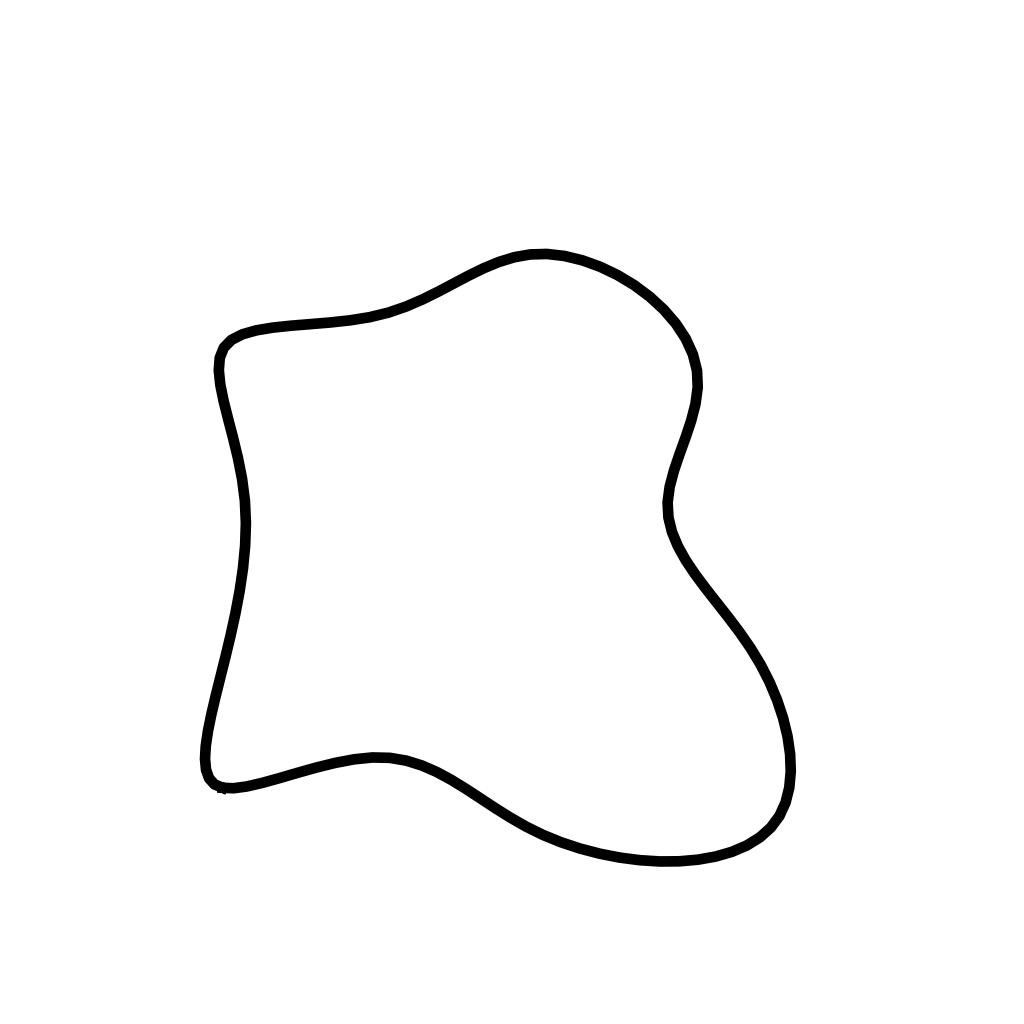
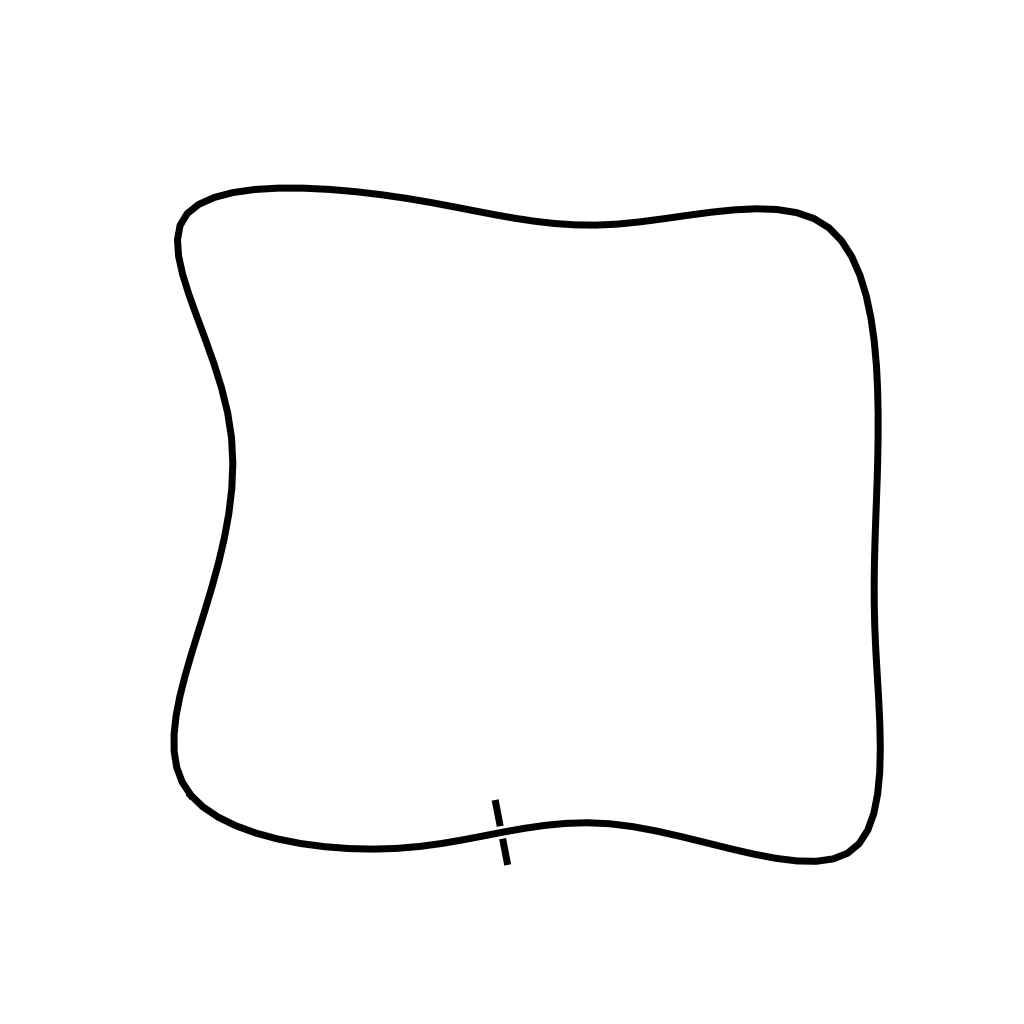
Start-/Stop-line generation added to simple track.

diff --git a/src/pyLineFollowerTrackGenerator/cmd_simple.py b/src/pyLineFollowerTrackGenerator/cmd_simple.py
@@ -44,8 +44,9 @@ from pyLineFollowerTrackGenerator.nodes.ImageTexture import ImageTexture
 ################################################################################
 # Variables
 ################################################################################
-
 _CMD_NAME = "simple"
+_START_STOP_LINE_WIDTH = 0.05 # [m]
+_START_STOP_LINE_DISTANCE_TO_MIDDLE = 0.025 # [m]
 
 ################################################################################
 # Classes
@@ -55,18 +56,30 @@ _CMD_NAME = "simple"
 # Functions
 ################################################################################
 
-def _generate_points_along_rectangle(num_points, border_width, border_height): # pylint: disable=too-many-locals
-    num_points_on_x_axis = num_points * border_width // (2 * (border_width + border_height))
-    num_points_on_y_axis = num_points * border_height // (2 * (border_width + border_height))
+# pylint: disable=too-many-locals, line-too-long
+def _generate_points_along_rectangle(num_points, rect_width, rect_height) -> tuple[list[int], list[int]]:
+    """Generate a number of points along a virtual rectangle with the given
+        width/height.
+
+    Args:
+        num_points (int): Number of points to generate.
+        rect_width (int): Virtual rectangle width in pixels.
+        rect_height (int): Virtual rectangle height in pixels.
+
+    Returns:
+        tuple[list[int], list[int]]: Point coordinates (x, y)
+    """
+    num_points_on_x_axis = num_points * rect_width // (2 * (rect_width + rect_height))
+    num_points_on_y_axis = num_points * rect_height // (2 * (rect_width + rect_height))
     tolerance = 10 # [%]
-    width = border_width * (100 - 2 * tolerance) // 100
-    height = border_height * (100 - 2 * tolerance) // 100
+    width = rect_width * (100 - 2 * tolerance) // 100
+    height = rect_height * (100 - 2 * tolerance) // 100
     x_tolerance = width * tolerance // 100
     y_tolerance = height * tolerance // 100
     distance_x = width // num_points_on_x_axis
     distance_y = height // num_points_on_y_axis
-    points_x = []
-    points_y = []
+    x_points = []
+    y_points = []
 
     # Walk along x-axis in positive direction
     y_base = 0
@@ -77,8 +90,8 @@ def _generate_points_along_rectangle(num_points, border_width, border_height): #
         x += x_tolerance
         y += y_tolerance
 
-        points_x.append(x)
-        points_y.append(y)
+        x_points.append(x)
+        y_points.append(y)
 
     # Walk along y-axis in positive direction
     x_base = width - 1
@@ -89,8 +102,8 @@ def _generate_points_along_rectangle(num_points, border_width, border_height): #
         x += x_tolerance
         y += y_tolerance
 
-        points_x.append(x)
-        points_y.append(y)
+        x_points.append(x)
+        y_points.append(y)
 
     # Walk along x-axis in negative direction
     y_base = height - 1
@@ -101,8 +114,8 @@ def _generate_points_along_rectangle(num_points, border_width, border_height): #
         x += x_tolerance
         y += y_tolerance
 
-        points_x.append(x)
-        points_y.append(y)
+        x_points.append(x)
+        y_points.append(y)
 
     # Walk along y-axis in negative direction
     x_base = 0
@@ -113,10 +126,10 @@ def _generate_points_along_rectangle(num_points, border_width, border_height): #
         x += x_tolerance
         y += y_tolerance
 
-        points_x.append(x)
-        points_y.append(y)
+        x_points.append(x)
+        y_points.append(y)
 
-    return points_x, points_y
+    return x_points, y_points
 
 def _generate_spline(x, y):
     num_points = len(x)
@@ -131,26 +144,117 @@ def _generate_spline(x, y):
     u_new = np.linspace(0, 1, num_points * 10)
     x_spline, y_spline = splev(u_new, tck, der=0)
 
-    return x_spline, y_spline
+    return x_spline, y_spline, tck
 
-def _generate_track_image(image_file_name, num_points, image_width, image_height, image_line_width, is_debug_mode): # pylint: disable=too-many-arguments, line-too-long
+def _generate_start_stop_line(tck, u, distance_from_middle, length) -> tuple[list[float], list[float], list[float], list[float]]:
+    """Generate points for a start-/stop-line. The start-/stop-line
+        start at the given distance from the line middle on both
+        sides and has a dediacted length.
+
+    Args:
+        tck (tuple(t,c,k)): Knots vector
+        u (float): Location on the virtual rectangle spline [0..1]
+        distance_from_middle (int): Distance from the line middle in pixels.
+        length (int): Length in pixels of one part of the start-/stop-line.
+
+    Returns:
+        tuple[list[float], list[float], list[float], list[float]]: Lower and upper points of the start-/stop-line.
+    """
+    # Calculate the derivative of the spline at the given parameter u.
+    dx, dy = splev(u, tck, der=1)
+
+    # Determine the point on the spline at the given parameter u.
+    x_spline, y_spline = splev(u, tck)
+
+    # Determine the unit normal vector to the tangent
+    mag = np.sqrt(dx**2 + dy**2)
+    nx = -dy / mag  # x-component of the unit normal vector
+    ny = dx / mag   # y-component of the unit normal vector
+
+    # Determine the points on the perpendicular lines to form 
+    x_perpendicular_low = [
+        x_spline - distance_from_middle * nx,
+        x_spline - (distance_from_middle + length) * nx
+    ]
+    y_perpendicular_low = [
+        y_spline - distance_from_middle * ny,
+        y_spline - (distance_from_middle + length) * ny
+    ]
+
+    x_perpendicular_high = [
+        x_spline + distance_from_middle * nx,
+        x_spline + (distance_from_middle + length) * nx
+    ]
+    y_perpendicular_high = [
+        y_spline + distance_from_middle * ny,
+        y_spline + (distance_from_middle + length) * ny
+    ]
+
+    return x_perpendicular_low, y_perpendicular_low, x_perpendicular_high, y_perpendicular_high
+
+# pylint: disable=too-many-arguments, line-too-long
+def _generate_track_image(num_points, image_width, image_height, image_line_width, pixel_per_m, is_debug_mode) -> plt.Figure:
+    """Generate the image with the line follower track.
+
+    Args:
+        num_points (int): Number of points on the used virtual rectangle.
+        image_width (int): Image width in pixels.
+        image_height (int): Image height in pixels.
+        image_line_width (int): The line follower line width in pixels.
+        pixel_per_m (float): Conversion factor pixel per m.
+        is_debug_mode (bool): In debug mode the image will get additional information.
+
+    Returns:
+        plt.Figure: Figure
+    """
+    line_color = "black"
+    line_points_color = "red"
+    start_stop_line_color = line_color
+    background_color = "white"
+
+    # 12.5 % after the first point, means in the middle of the lower rectangle part.
+    start_stop_line_location = 0.125
+
+    # In debug mode show the start-/stop-line in different color.
+    if is_debug_mode is True:
+        start_stop_line_color = "orange"
+
     # Create figure and axis
-    dpi = 100
-    _, ax = plt.subplots(figsize=(image_width/dpi, image_height/dpi),dpi=dpi)
+    dpi = 72 # Use a dpi of 72 to plot with exact pixel sizes.
+    fig, ax = plt.subplots(figsize=(image_width/dpi, image_height/dpi),dpi=dpi)
 
-    # Set white background
-    ax.set_facecolor('white')
+    # Set background color
+    ax.set_facecolor(background_color)
 
     # Generate random line
-    rect_x, rect_y = _generate_points_along_rectangle(num_points, image_width, image_height)
-    x, y = _generate_spline(rect_x, rect_y)
+    x_rect, y_rect = _generate_points_along_rectangle(num_points, image_width, image_height)
+    x_spline, y_spline, tck = _generate_spline(x_rect, y_rect)
 
     # Plot the line
-    ax.plot(x, y, color="black", linewidth=image_line_width, zorder=1)
+    ax.plot(x_spline, y_spline, color=line_color, linewidth=image_line_width, zorder=1)
 
     # Show the points used for generation in debug mode.
     if is_debug_mode is True:
-        ax.scatter(rect_x, rect_y, color="red", linewidth=image_line_width, zorder=2)
+        ax.scatter(x_rect, y_rect, color=line_points_color, linewidth=image_line_width, zorder=2)
+
+    # Plot start- and stop-line
+    x_perpendicular_low, y_perpendicular_low, \
+    x_perpendicular_high, y_perpendicular_high = \
+        _generate_start_stop_line(  tck,
+                                    start_stop_line_location,
+                                    _START_STOP_LINE_DISTANCE_TO_MIDDLE * pixel_per_m,
+                                    _START_STOP_LINE_WIDTH * pixel_per_m)
+
+    ax.plot(x_perpendicular_low,
+            y_perpendicular_low,
+            color=start_stop_line_color,
+            linewidth=image_line_width,
+            zorder=2)
+    ax.plot(x_perpendicular_high,
+            y_perpendicular_high,
+            color=start_stop_line_color,
+            linewidth=image_line_width,
+            zorder=2)
 
     # Set limits
     ax.set_xlim(0, image_width)
@@ -159,7 +263,7 @@ def _generate_track_image(image_file_name, num_points, image_width, image_height
     # Hide axes
     ax.axis('off')
 
-    plt.savefig(image_file_name)
+    return fig
 
 def _get_cmd_line_parameters() -> str:
     args = sys.argv[1:]
@@ -188,10 +292,11 @@ def _exec(args): # pylint: disable=too-many-locals
     world_creation_date = datetime.today().strftime('%Y-%m-%d')
     image_width         = args.imageSize # [pixel]
     image_height        = args.imageSize # [pixel]
-    image_line_width    = args.imageSize * args.lineWidth / args.size # [pixel]
+    image_line_width    = args.imageSize * args.lineWidth // args.size # [pixel]
     arena_width         = args.size # [m]
     arena_height        = args.size # [m]
     num_points          = args.numPoints
+    pixel_per_m         = args.imageSize / args.size
     world_file_name     = ""
     image_file_name     = ""
     basic_time_step     = 8
@@ -256,12 +361,18 @@ def _exec(args): # pylint: disable=too-many-locals
         rectangle_arena
     ])
 
-    _generate_track_image(  image_file_name,
-                            num_points,
-                            image_width,
-                            image_height,
-                            image_line_width,
-                            is_debug_mode)
+    fig = _generate_track_image(num_points,
+                                image_width,
+                                image_height,
+                                image_line_width,
+                                pixel_per_m,
+                                is_debug_mode)
+
+    if is_debug_mode is True:
+        plt.show()
+
+    # Save image in filesystem.
+    fig.savefig(image_file_name, dpi="figure")
 
     code_format = CodeFormat()
     world_file.save(world_file_name, code_format)
